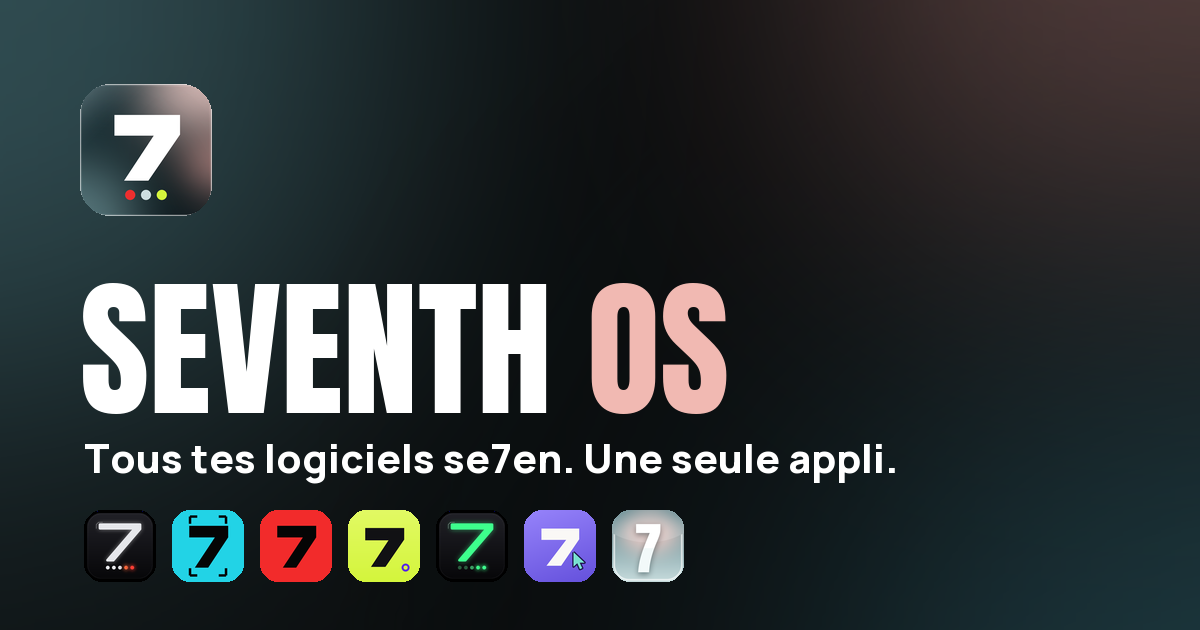
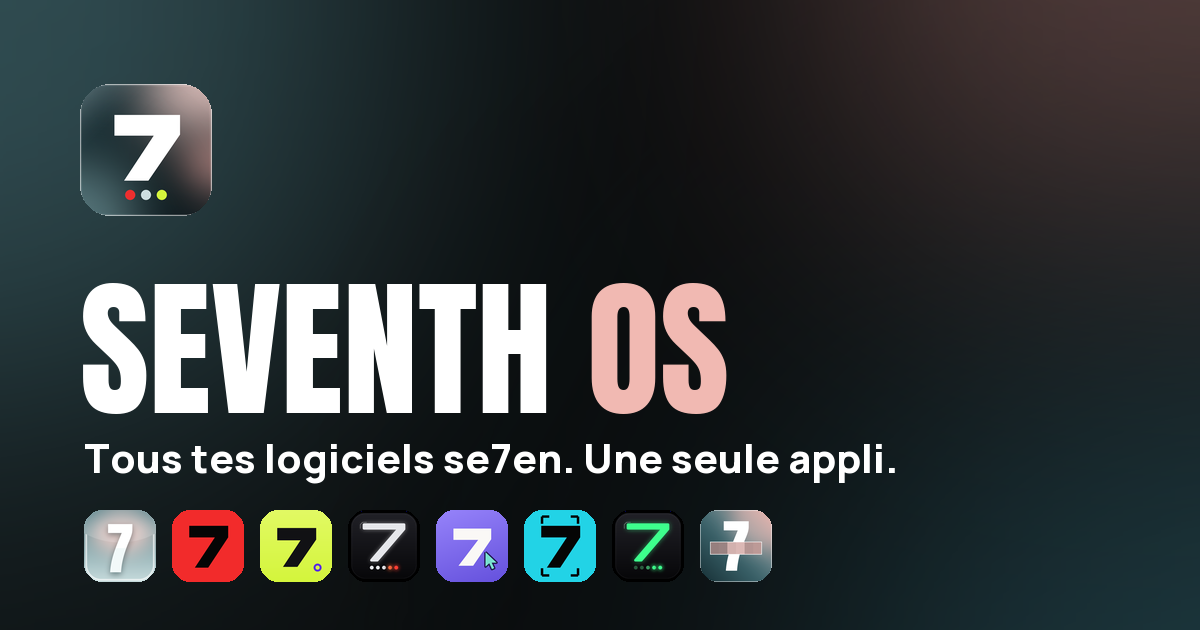
Site à jour : 8 applis, image de partage avec toutes les icônes, script de synchro
npm run sync relit le catalogue de Seventh OS (icônes, fiches de secours, nombre d'applis, image de partage
à adresse versionnée pour que Discord rafraîchisse l'aperçu).

Changed region(s): [[0.0617, 0.7841, 0.6475, 0.9349]]

diff --git a/public/index.html b/public/index.html
@@ -4,12 +4,12 @@
 <meta charset="utf-8">
 <meta name="viewport" content="width=device-width, initial-scale=1">
 <title>Seventh OS — toutes les applis se7en</title>
-<meta name="description" content="Seventh OS installe, ouvre et met à jour toutes les applis se7en en un clic : voix, clips TikTok, téléchargement, manette PS5, autoclic… Gratuit, pour Windows 10 et 11.">
+<meta name="description" content="Seventh OS installe, ouvre et met à jour toutes les applis se7en en un clic : voix, clips TikTok, téléchargement, manette PS5, autoclic, floutage auto… Gratuit, pour Windows 10 et 11.">
 <meta name="theme-color" content="#0B0D0E">
 <meta property="og:type" content="website">
 <meta property="og:title" content="Seventh OS — toutes les applis se7en">
 <meta property="og:description" content="Une seule appli pour installer et mettre à jour tous les logiciels se7en. Gratuit, pour Windows.">
-<meta property="og:image" content="/assets/og.png">
+<meta property="og:image" content="https://seventh-os.pages.dev/assets/og.png?v=ia-dow-dua-voi-vis-cli-aut-cen">
 <meta name="twitter:card" content="summary_large_image">
 <link rel="icon" type="image/png" href="/assets/icons/seventh-os.png">
 <link rel="preload" href="/assets/fonts/Anton-Regular.ttf" as="font" type="font/ttf" crossorigin>
@@ -38,7 +38,7 @@
       <p class="eyebrow"><span class="dot"></span> Gratuit · Windows 10 et 11</p>
       <h1>SEVENTH <i>OS</i></h1>
       <p class="punch">Tous tes logiciels se7en.<br>Une seule appli pour les gérer.</p>
-      <p class="lead">Installe, ouvre et mets à jour <b data-count>7</b> applis pour créer, streamer et jouer, en un clic. Plus de liens à chercher, plus de versions à suivre.</p>
+      <p class="lead">Installe, ouvre et mets à jour <b data-count>8</b> applis pour créer, streamer et jouer, en un clic. Plus de liens à chercher, plus de versions à suivre.</p>
       <div class="cta">
         <a class="btn primary big dl-link" href="/download">
           <svg viewBox="0 0 24 24" width="20" height="20" aria-hidden="true"><path fill="currentColor" d="M3 5.1 10.4 4v7.1H3V5.1Zm0 13.8 7.4 1.1v-7H3v5.9Zm8.3 1.2L21 21.5v-8.4h-9.7v7Zm0-16.2v7.2H21V2.5l-9.7 1.4Z"/></svg>
@@ -77,7 +77,7 @@
   <section class="section" id="applis">
     <div class="section-head">
       <p class="kicker">Le catalogue</p>
-      <h2><span data-count>7</span> applis. Et ça continue.</h2>
+      <h2><span data-count>8</span> applis. Et ça continue.</h2>
       <p class="sub">Chaque nouvelle appli se7en arrive directement dans Seventh OS, sans rien retélécharger.</p>
     </div>
     <div class="apps" id="apps"></div>
@@ -143,7 +143,7 @@
       </details>
       <details class="glass">
         <summary>Il me faut quel PC ?</summary>
-        <p>Windows 10 ou 11, 64 bits. Certaines applis demandent plus : se7en Clip conseille une carte graphique, se7en IA a besoin d'After Effects. Chaque fiche dit ce qu'il faut.</p>
+        <p>Windows 10 ou 11, 64 bits. Certaines applis demandent plus : se7en Clip et se7en Censored conseillent une carte graphique, se7en IA a besoin d'After Effects. Chaque fiche dit ce qu'il faut.</p>
       </details>
       <details class="glass">
         <summary>Et sur Mac ou sur téléphone ?</summary>

diff --git a/public/app.js b/public/app.js
@@ -4,14 +4,14 @@ const RAW = `https://raw.githubusercontent.com/${REPO}/main`;
 
 // Copie de secours si GitHub ne répond pas (mêmes champs que apps.json).
 const FALLBACK = [
-  { id: 'se7en-voice', name: 'se7en Voice', subtitle: 'Voix · Mixeur · Soundboard', accent: '#E6E7EB', tagline: 'Change ta voix et gère tout le son de ton PC, au même endroit.' },
-  { id: 'se7en-clip', name: 'se7en Clip', subtitle: 'Clip farm · TikTok · Shorts · Reels', accent: '#22D3E6', tagline: 'Une rediff de stream → tes meilleurs clips TikTok, tout seul.' },
-  { id: 'se7en-download', name: 'se7en Download', subtitle: 'Télécharger · IA · Convertir', accent: '#F2564B', tagline: 'Télécharge, améliore et convertis tes vidéos.' },
-  { id: 'se7en-dualsense', name: 'se7en DualSense', subtitle: 'Ta manette PS5 sur PC', accent: '#D7F23A', tagline: 'Ta DualSense dans tous tes jeux PC.' },
-  { id: 'se7en-autoclick', name: 'se7en Autoclick', subtitle: 'Autoclic · Macros', accent: '#3DFF8C', tagline: 'Clique et rejoue tes gestes en boucle pour farmer.' },
-  { id: 'se7en-vision', name: 'se7en Vision', subtitle: 'Ton PC depuis ton iPhone', accent: '#7A64F0', tagline: 'Contrôle ton PC depuis ton téléphone, où que tu sois.' },
-  { id: 'se7en-censored', name: 'se7en Censored', subtitle: 'Floutage auto · Twitch', accent: '#F28B96', tagline: "Floute tout seul les parties intimes d'un film, uniquement là où il faut." },
-  { id: 'se7en-ia', name: 'se7en IA', subtitle: 'se7en studio · After Effects', accent: '#E9A19A', tagline: "Tes edits d'anime dans After Effects, en un clic." },
+  { id: "se7en-ia", name: "se7en IA", subtitle: "se7en studio · After Effects", accent: "#E9A19A", tagline: "Tes edits d'anime dans After Effects, en un clic." },
+  { id: "se7en-download", name: "se7en Download", subtitle: "Télécharger · IA · Convertir · Découper · Lire", accent: "#F2564B", tagline: "Télécharge, améliore et convertis tes vidéos." },
+  { id: "se7en-dualsense", name: "se7en DualSense", subtitle: "Ta manette PS5 sur PC", accent: "#D7F23A", tagline: "Ta DualSense dans tous tes jeux PC." },
+  { id: "se7en-voice", name: "se7en Voice", subtitle: "Voix · Mixeur · Soundboard", accent: "#E6E7EB", tagline: "Change ta voix et gère tout le son de ton PC, au même endroit." },
+  { id: "se7en-vision", name: "se7en Vision", subtitle: "Ton PC depuis ton iPhone", accent: "#7A64F0", tagline: "Contrôle ton PC depuis ton téléphone, où que tu sois." },
+  { id: "se7en-clip", name: "se7en Clip", subtitle: "Clip farm · TikTok · Shorts · Reels", accent: "#22D3E6", tagline: "Une rediff de stream → tes meilleurs clips TikTok, tout seul." },
+  { id: "se7en-autoclick", name: "se7en Autoclick", subtitle: "Autoclic · Macros", accent: "#3DFF8C", tagline: "Clique et rejoue tes gestes en boucle pour farmer." },
+  { id: "se7en-censored", name: "se7en Censored", subtitle: "Floutage auto · Twitch", accent: "#F28B96", tagline: "Floute tout seul les parties intimes d'un film, uniquement là où il faut." },
 ];
 
 const el = (tag, cls, text) => { const n = document.createElement(tag); if (cls) n.className = cls; if (text != null) n.textContent = text; return n; };

diff --git a/tools/sync.py b/tools/sync.py
@@ -1,0 +1,53 @@
+# Met le site à jour depuis le catalogue de Seventh OS (../Seventh OS/apps.json et ui/icons) :
+#   - icônes copiées dans public/assets/icons ;
+#   - copie de secours des fiches (FALLBACK dans public/app.js), dans l'ordre du catalogue ;
+#   - nombre d'applis écrit dans la page (avant que le JavaScript ne le relise) ;
+#   - image de partage refaite avec toutes les icônes (tools/make_og.py).
+# La page relit déjà apps.json en direct : ce script sert à ce qui ne bouge pas tout seul.
+import json
+import re
+import shutil
+import subprocess
+import sys
+from pathlib import Path
+
+ROOT = Path(__file__).resolve().parent.parent
+HUB = ROOT.parent / "Seventh OS"
+PUB = ROOT / "public"
+
+
+def js(s: str) -> str:
+    return json.dumps(s, ensure_ascii=False)
+
+
+def main() -> int:
+    apps = json.loads((HUB / "apps.json").read_text("utf-8"))["apps"]
+    icons = PUB / "assets" / "icons"
+    copied = 0
+    for f in (HUB / "ui" / "icons").glob("*.png"):
+        dst = icons / f.name
+        if not dst.exists() or dst.read_bytes() != f.read_bytes():
+            shutil.copy2(f, dst)
+            copied += 1
+    lines = ",\n".join(
+        "  { id: %s, name: %s, subtitle: %s, accent: %s, tagline: %s }"
+        % (js(a["id"]), js(a["name"]), js(a.get("subtitle", "")), js(a.get("accent", "#fff")), js(a.get("tagline", "")))
+        for a in apps)
+    app_js = PUB / "app.js"
+    s = app_js.read_text("utf-8")
+    s = re.sub(r"const FALLBACK = \[\n.*?\n\];", "const FALLBACK = [\n" + lines + ",\n];", s, count=1, flags=re.S)
+    app_js.write_text(s, "utf-8", newline="\n")
+    page = PUB / "index.html"
+    h = page.read_text("utf-8")
+    h = re.sub(r"(data-count>)\d+(<)", rf"\g<1>{len(apps)}\2", h)
+    # adresse complète et changeante : Discord, X… gardent l'aperçu en cache tant que l'adresse de l'image ne change pas
+    ver = "-".join(a["id"].removeprefix("se7en-")[:3] for a in apps)
+    h = re.sub(r'(<meta property="og:image" content=")[^"]*(")', rf"\g<1>https://seventh-os.pages.dev/assets/og.png?v={ver}\2", h)
+    page.write_text(h, "utf-8", newline="\n")
+    subprocess.run([sys.executable, str(ROOT / "tools" / "make_og.py")], check=True)
+    print(f"{len(apps)} applis · {copied} icône(s) mise(s) à jour · image de partage refaite")
+    return 0
+
+
+if __name__ == "__main__":
+    raise SystemExit(main())

diff --git a/tools/make_og.py b/tools/make_og.py
@@ -1,11 +1,13 @@
-# Image de partage (Discord, X, WhatsApp…) : public/assets/og.png, 1200 x 630.
+# Image de partage (Discord, X, WhatsApp…) : public/assets/og.png, 1200 x 630, avec l'icône de chaque appli du catalogue.
+import json
 from pathlib import Path
 from PIL import Image, ImageDraw, ImageFilter, ImageFont
 
 ROOT = Path(__file__).resolve().parent.parent
 A = ROOT / "public" / "assets"
 W, H = 1200, 630
-APPS = ["se7en-voice", "se7en-clip", "se7en-download", "se7en-dualsense", "se7en-autoclick", "se7en-vision", "se7en-ia"]
+CATALOG = ROOT.parent / "Seventh OS" / "apps.json"
+APPS = [a["id"] for a in json.loads(CATALOG.read_text("utf-8"))["apps"]] if CATALOG.exists() else     sorted(p.stem for p in (A / "icons").glob("se7en-*.png"))
 
 
 def glow(img, xy, r, color, alpha):
@@ -44,12 +46,14 @@ w = d.textlength("SEVENTH ", font=big)
 d.text((80 + w, 236), "OS", font=big, fill=(241, 185, 178))
 d.text((84, 430), "Tous tes logiciels se7en. Une seule appli.", font=manrope, fill=(255, 255, 255, 220))
 
+# rangée d'icônes : 72 px, plus petites si le catalogue grandit (tout tient entre les marges)
+shown = [a for a in APPS if (A / "icons" / f"{a}.png").exists()]
+gap = 16
+size = int(min(72, (W - 2 * 84 - gap * (len(shown) - 1)) / max(1, len(shown))))
 x = 84
-for app in APPS:
-    p = A / "icons" / f"{app}.png"
-    if p.exists():
-        img.alpha_composite(rounded(Image.open(p), 72, 18), (x, 510))
-        x += 88
+for app in shown:
+    img.alpha_composite(rounded(Image.open(A / "icons" / f"{app}.png"), size, int(size / 4)), (x, 510 + (72 - size) // 2))
+    x += size + gap
 
 img.convert("RGB").save(A / "og.png", optimize=True)
 print("ok", A / "og.png")

diff --git a/README.md b/README.md
@@ -15,6 +15,7 @@ Le site de téléchargement de Seventh OS, hébergé gratuitement sur Cloudflare
 ```
 npm install
 npm run dev        aperçu sur http://localhost:8788 (avec /download et /api/latest)
+npm run sync       après un ajout dans Seventh OS : icônes, fiches de secours, nombre d'applis, image de partage
 npm run deploy     mise en ligne sur Cloudflare Pages (projet « seventh-os »)
 ```
 
